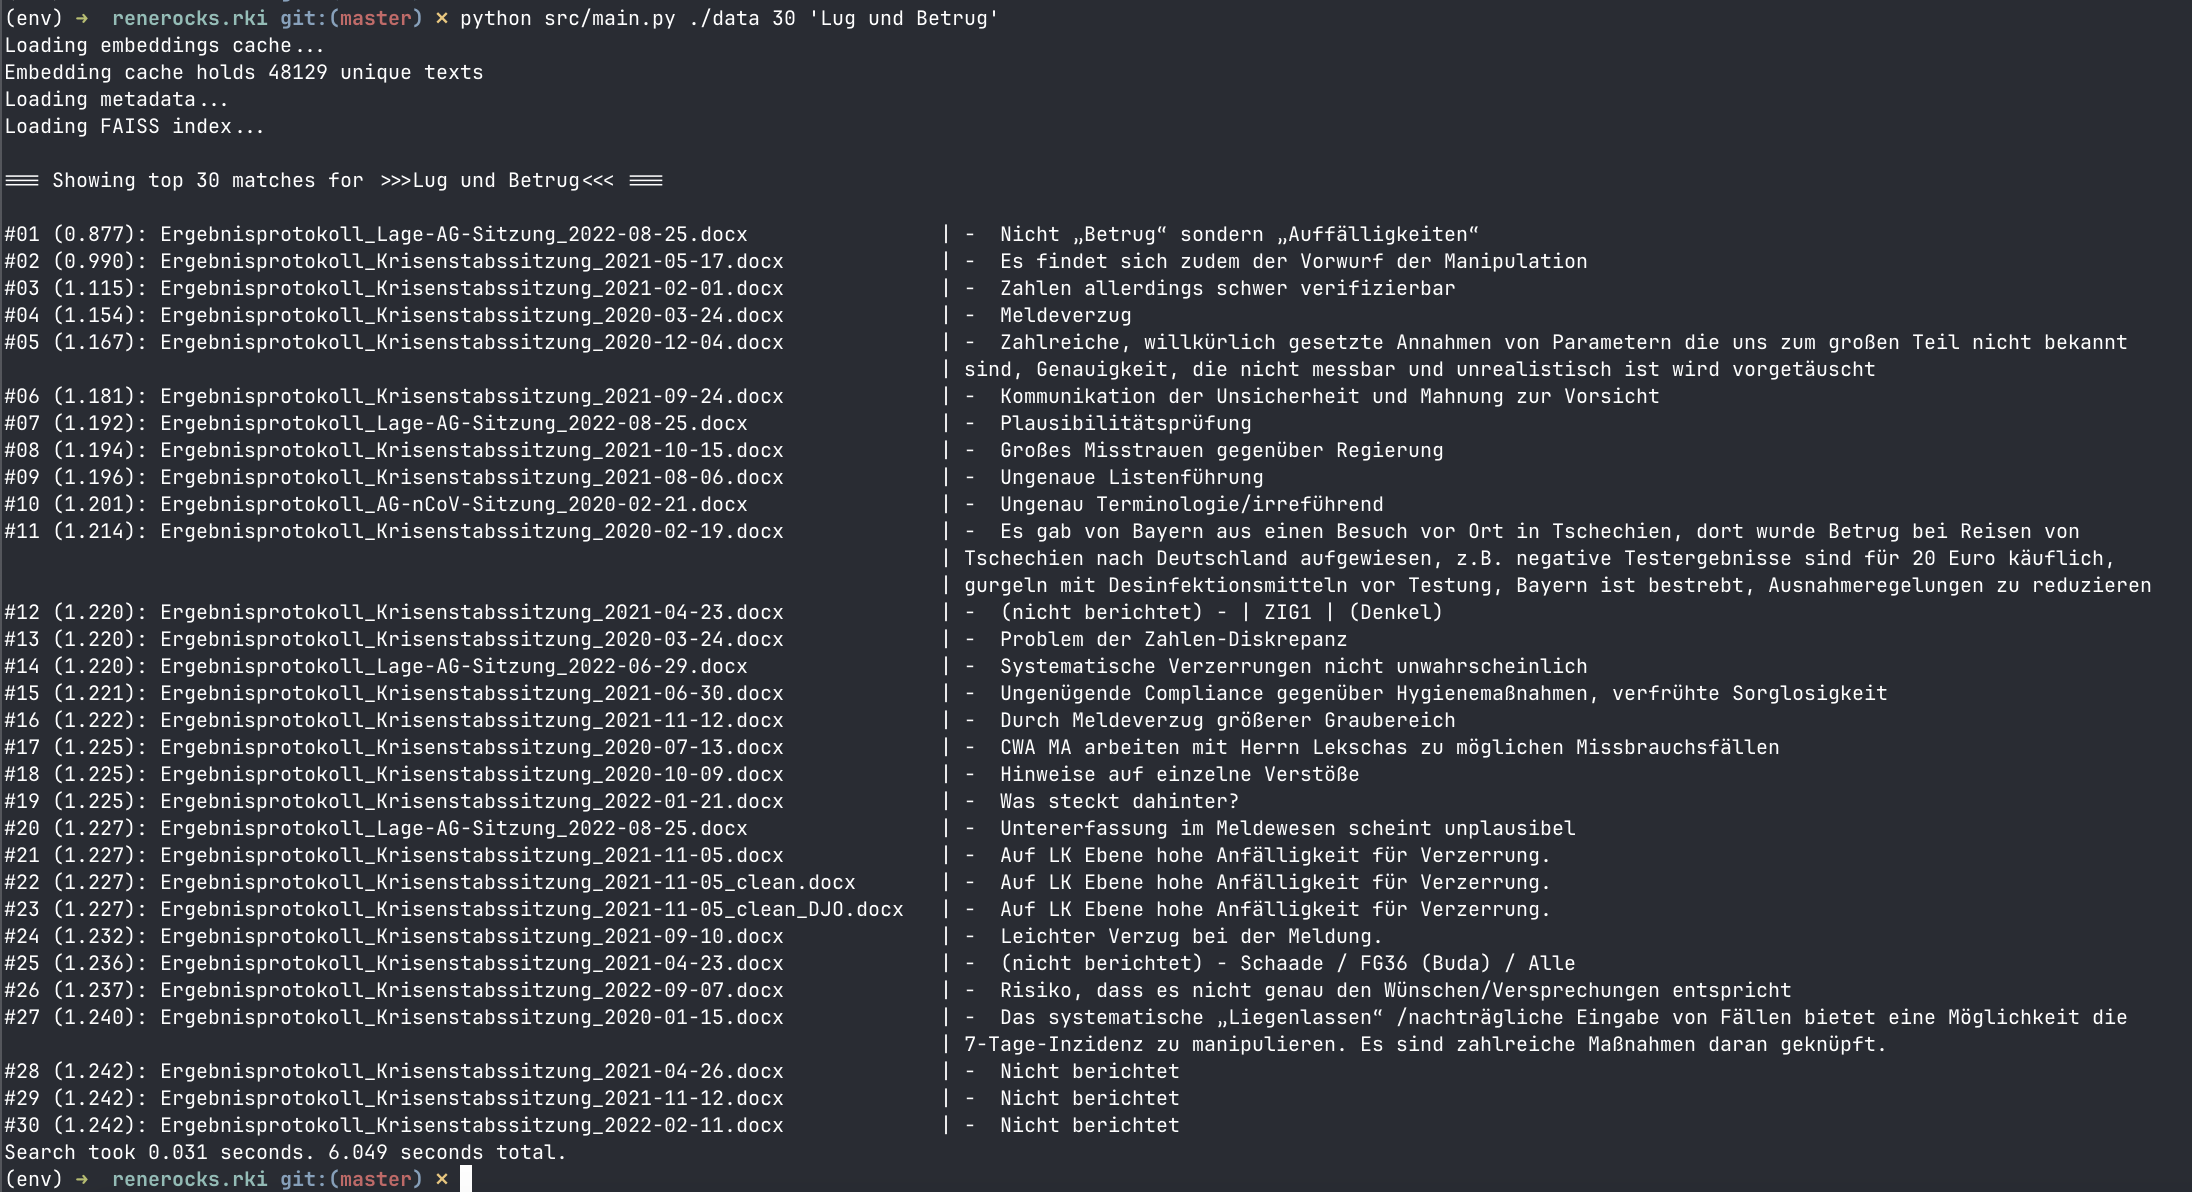
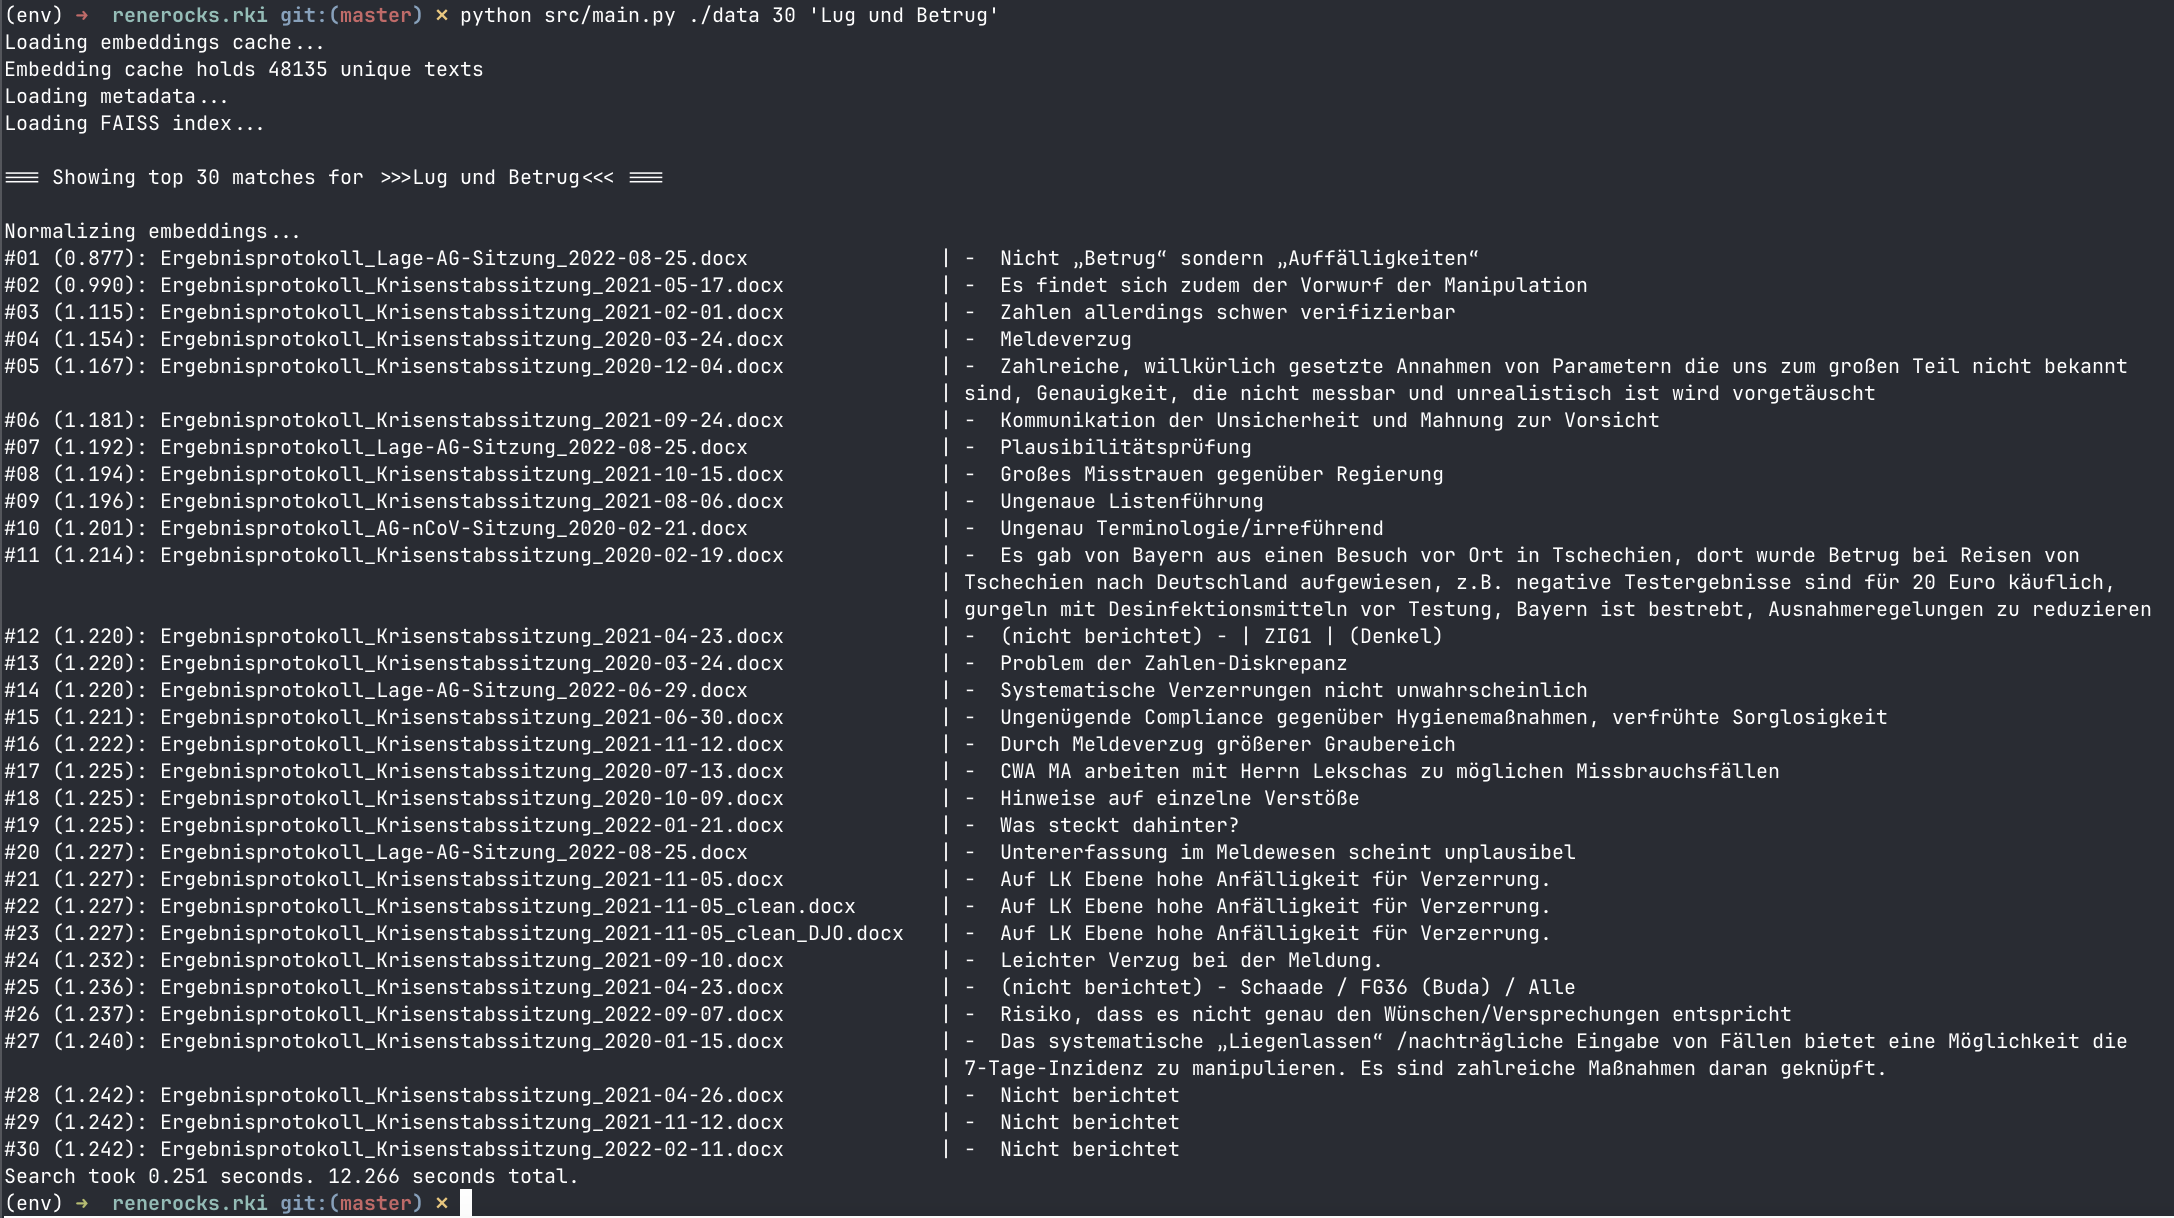
normalize query embeddings for proper cos distance similarity search

Changed region(s): [[0.0, 0.1862, 1.0, 1.0], [0.0, 0.1862, 0.3698, 0.4656], [0.0, 0.0, 0.4623, 0.1552]]

diff --git a/src/main.py b/src/main.py
@@ -145,11 +145,11 @@ else:
     save_faiss_index(index,FILN_FAISS_INDEX)
 
 
-
 print(f'\n=== Showing top {k_results} matches for >>>{query_text}<<< ===\n')
 query_embedding = get_openai_embeddings([query_text],
                                         just_load=True,
                                         auto_save=True)
+query_embedding = normalize_embeddings(query_embedding)
 search_start_time = time.time()
 distances, indices = search_faiss_index(index, query_embedding, k=k_results)
 search_end_time = time.time()
